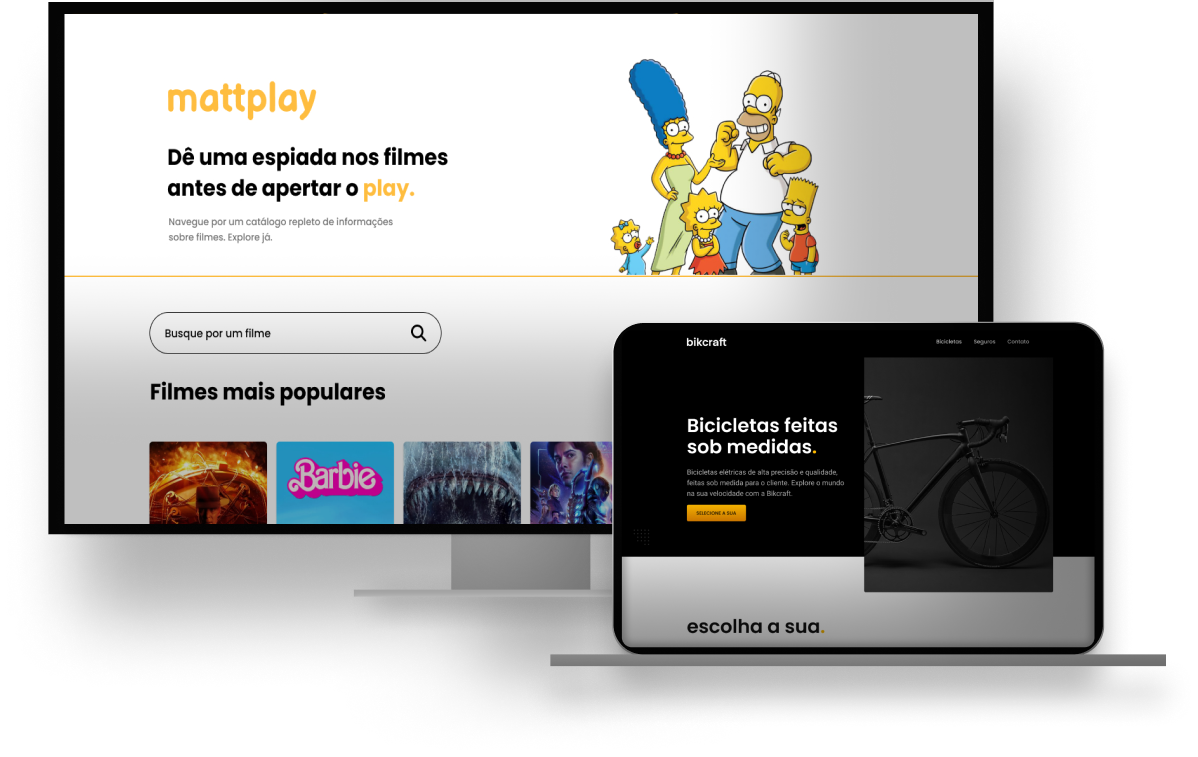
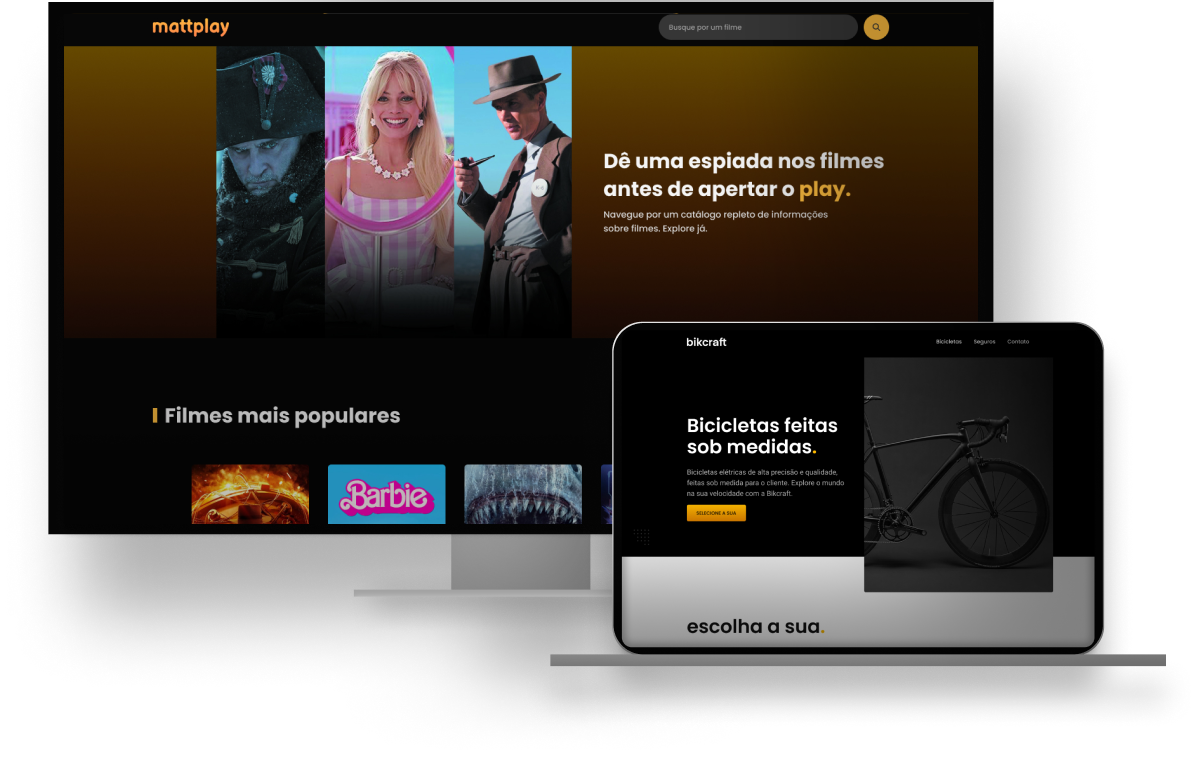
modificando projetos

diff --git a/index.html b/index.html
@@ -39,7 +39,7 @@
     <div class="sobre-container">
       <div class="sobre-description">
         <h1>Sobre mim</h1>
-        <p>Desenvolvo pequenos projetos como o Scook utilizando  apenas <span class="destaque"> HTML, CSS </span> e <span class="destaque"> JavaScript. </span> Para aplicativos web como  a rede social MattPlay eu trabalhei no  <span class="destaque">UX </span> e <span class="destaque"> UI Design. </span></p>
+        <p>Desenvolvo pequenos projetos como o Scook utilizando  apenas <span class="destaque"> HTML, CSS </span> e <span class="destaque"> JavaScript. </span> Para o web site o MattPlay eu trabalhei no  <span class="destaque">UX </span> e <span class="destaque"> UI Design. </span></p>
       </div>
         <img src="./img/vetor.png" alt="ilustrador">
     </div>
@@ -75,8 +75,8 @@
       <div class="card">
         <img src="./img/projetos/mattcine.jpg" class="card-img" alt="Mattcine" width="410">
         <div class="card-body">
-          <h1 class="card-title">Mattcine</h1>
-          <p class="card-info">O Mattcine é um site focado em análises de filmes, proporcionando aos usuários uma forma confiável de explorar e analisar a qualidade cinematográfica.</p>
+          <h1 class="card-title">Mattplay</h1>
+          <p class="card-info">O Mattplay é um site focado em análises de filmes, proporcionando aos usuários uma forma confiável de explorar e analisar a qualidade cinematográfica.</p>
 
           <button class="card-btn"><a href="https://mattplay.vercel.app/">Veja mais</a></button>
         </div>
@@ -102,12 +102,6 @@
         <img src="./img/email-icon.svg" alt="email">
         <h2>Email</h2>
         <p>matheusalves2906@gmail.com</p>
-      </div>
-
-      <div class="contato-info">
-        <img src="./img/telefone-icon.svg" alt="email">
-        <h2>Telefone</h2>
-        <p>(81) 98112-5596</p>
       </div>
 
       <div class="contato-info">
